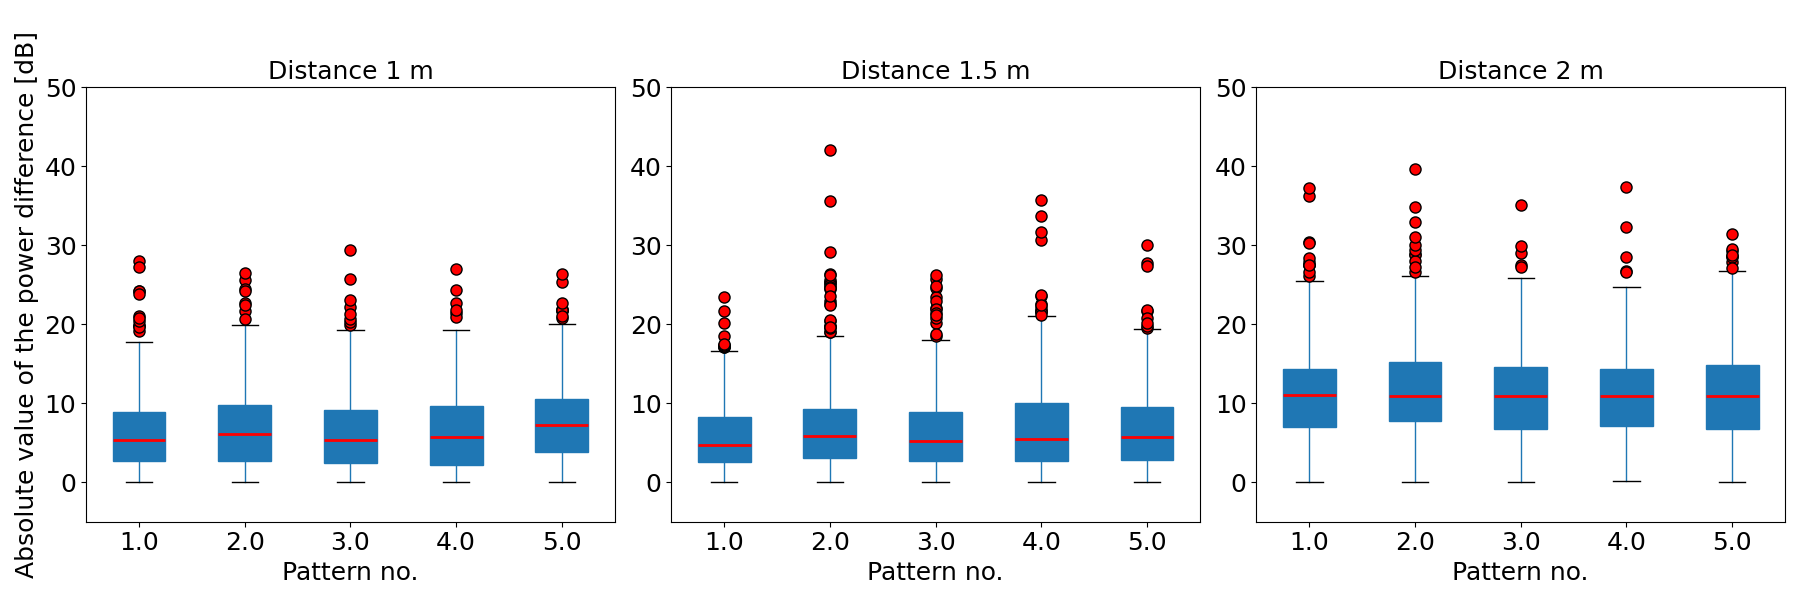
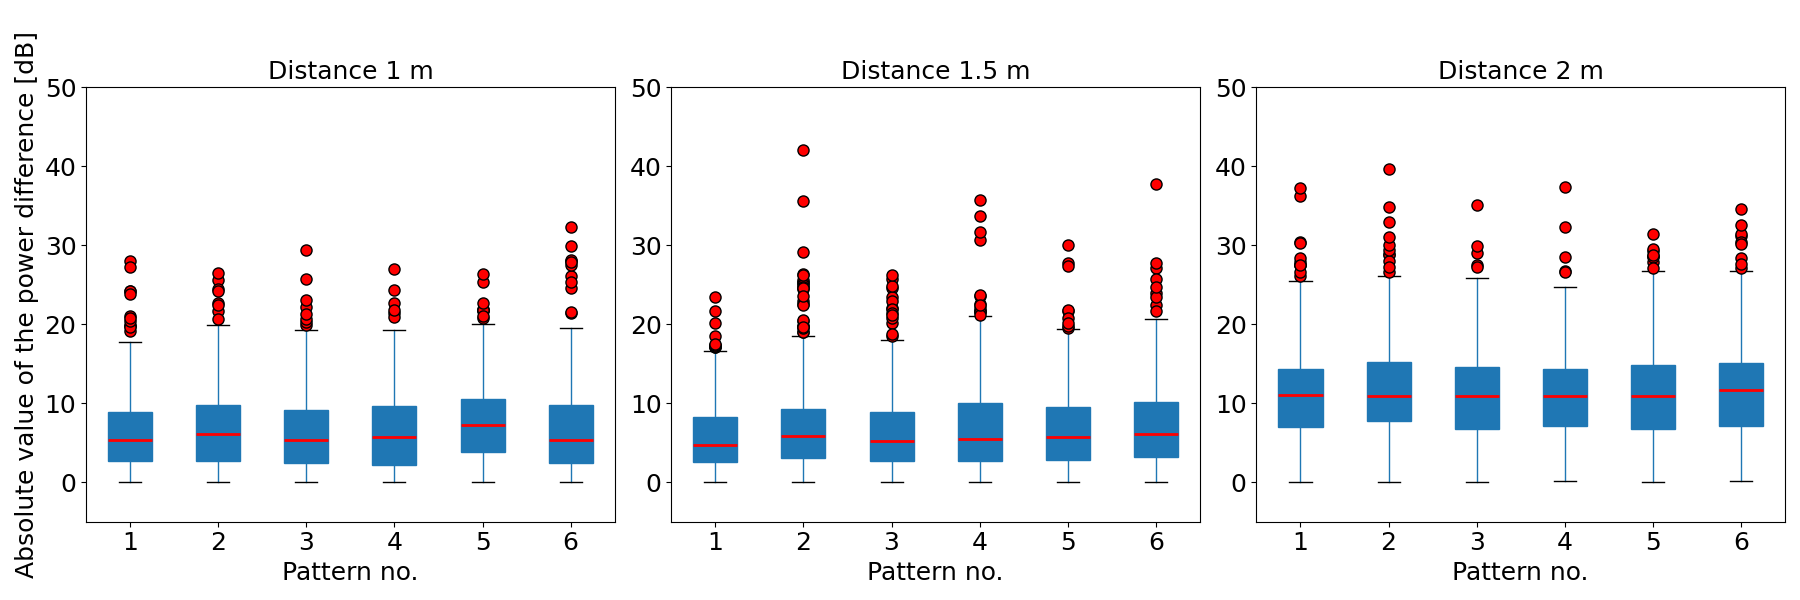
no ta znowu cos

diff --git a/Box_Plot/boxplot_aritcle.py b/Box_Plot/boxplot_aritcle.py
@@ -7,14 +7,7 @@ import matplotlib.pyplot as plt
 def tworz_subploty_wykresow(plik_csv_lista, wybrane_patterny, folder_wynikowy):
     # Mapa, która przypisuje oryginalnym patternom (np. 1, 20, 17, 8, 22, 19)
     # nowe wartości w zakresie 1–6 (lub według potrzeb)
-    pattern_mapping = {
-        1: 1,
-        20: 2,
-        17: 3,
-        8: 4,
-        22: 5,
-        26: 6,
-    }
+    pattern_mapping = {1: 1, 20: 2, 17: 3, 8: 4, 22: 5, 26: 6}
 
     # Podziel pliki na grupy po 3
     title = ["Distance 1 m", "Distance 1.5 m", "Distance 2 m"]
@@ -118,7 +111,7 @@ plik_csv_lista = [
 folder_wynikowy = "/Users/pawelplaczkiewicz/Documents/Dokumenty – Mac mini (Paweł)/GitHub/Python_RIS/box_plot_results_merge"
 
 # Wybrane patterny
-wybrane_patterny = [1, 20, 17, 8, 22, 19]
+wybrane_patterny = [1, 20, 17, 8, 22, 26]
 
 # Tworzenie subplotów wykresów dla grup plików CSV
 tworz_subploty_wykresow(plik_csv_lista, wybrane_patterny, folder_wynikowy)
